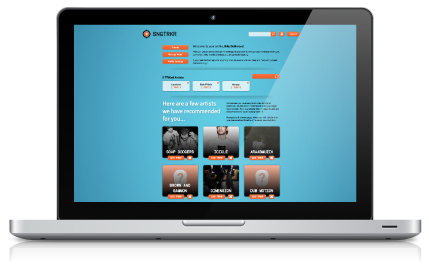
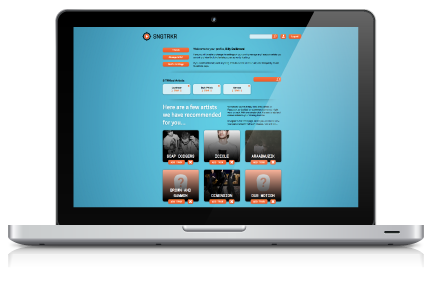
Finished new home page

Changed region(s): [[0.0, 0.0, 1.0, 0.8921]]

diff --git a/app/assets/stylesheets/application.css.scss b/app/assets/stylesheets/application.css.scss
@@ -66,6 +66,9 @@ body{
 .font-13 {
   font-size:1.1em;
 }
+.font-14 {
+	font-size:1.2em;
+}
 .font-15 {
   font-size:1.3em;
 }
@@ -730,12 +733,15 @@ body:before {/* thanks to Maleika (Kohoutec)*/
 	    width:328px;
 	    .home-txt-1 {
 		    /* text-shadow: #1A1A1A 0 0.5px 1px; */
+		    line-height:1.3em;
 	    }
     }
     .home-right {
 	    width:412px;
 	    #macbook {
-		    margin-top:-1px;
+		    position:relative;
+		    top:-1px;
+		    right:4px;
 	    }
     }
   }
@@ -750,7 +756,6 @@ body:before {/* thanks to Maleika (Kohoutec)*/
 		  li {
 			  width:240px;
 			  margin-left:30px;
-			  /* text-shadow: #1A1A1A 0 0.5px 1px; */
 			  #home1 {
 			  	position:relative;
 				  top:32px;
